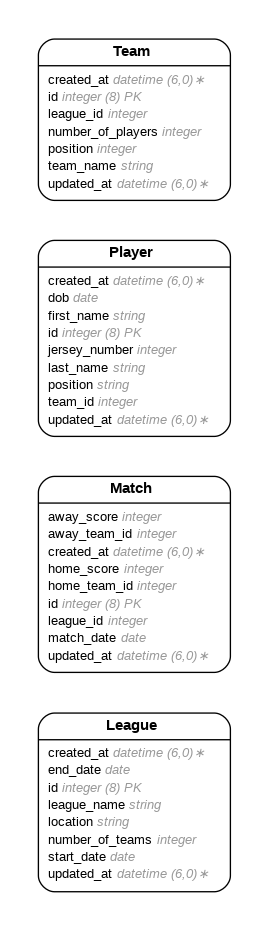
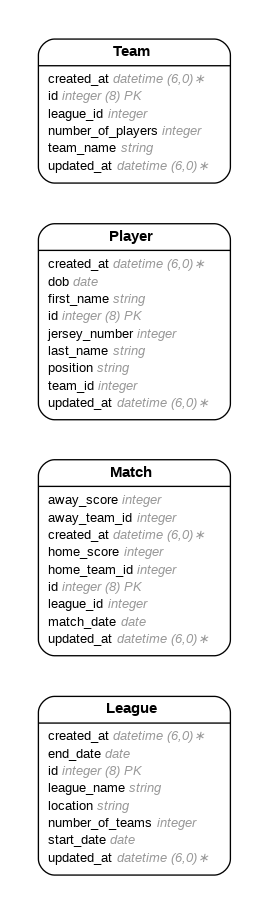
removed positon from teams

Changed region(s): [[0.119, 0.0306, 0.8625, 0.9497], [0.5948, 0.8884, 0.7138, 0.919], [0.8327, 0.4289, 0.8625, 0.4595]]

diff --git a/db/schema.rb b/db/schema.rb
@@ -10,7 +10,7 @@
 #
 # It's strongly recommended that you check this file into your version control system.
 
-ActiveRecord::Schema[7.1].define(version: 2025_03_06_054805) do
+ActiveRecord::Schema[7.1].define(version: 2025_03_06_064215) do
   # These are extensions that must be enabled in order to support this database
   enable_extension "plpgsql"
 
@@ -49,7 +49,6 @@ ActiveRecord::Schema[7.1].define(version: 2025_03_06_054805) do
   create_table "teams", force: :cascade do |t|
     t.string "team_name"
     t.integer "number_of_players"
-    t.integer "position"
     t.integer "league_id"
     t.datetime "created_at", null: false
     t.datetime "updated_at", null: false

diff --git a/app/models/team.rb b/app/models/team.rb
@@ -4,7 +4,6 @@
 #
 #  id                :bigint           not null, primary key
 #  number_of_players :integer
-#  position          :integer
 #  team_name         :string
 #  created_at        :datetime         not null
 #  updated_at        :datetime         not null
